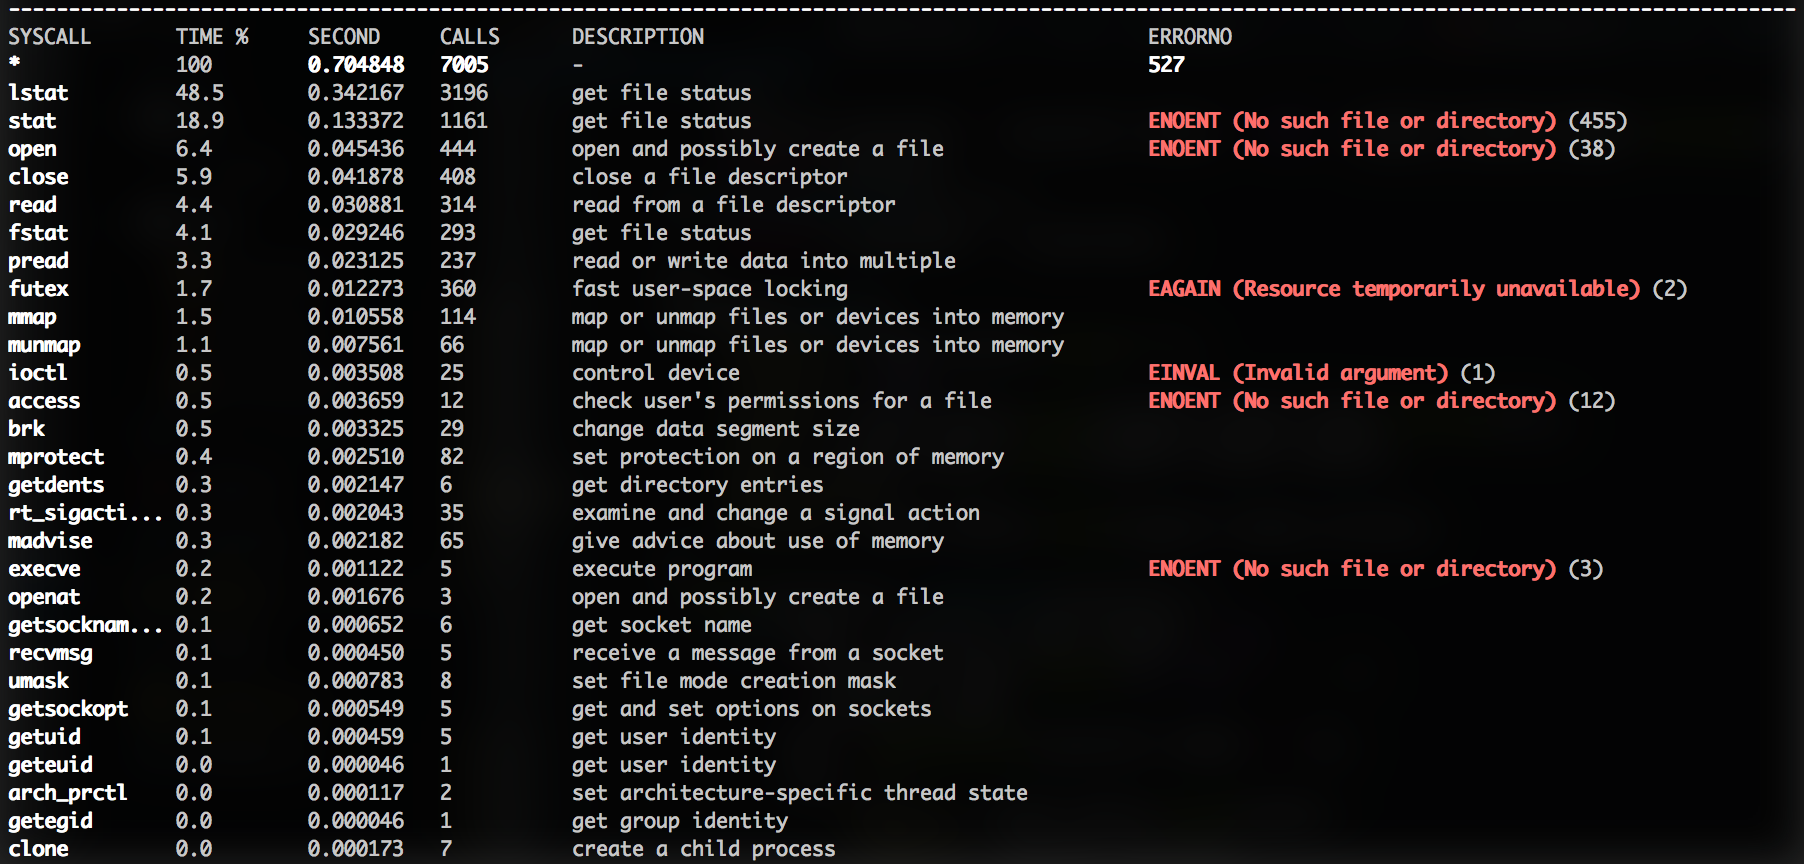
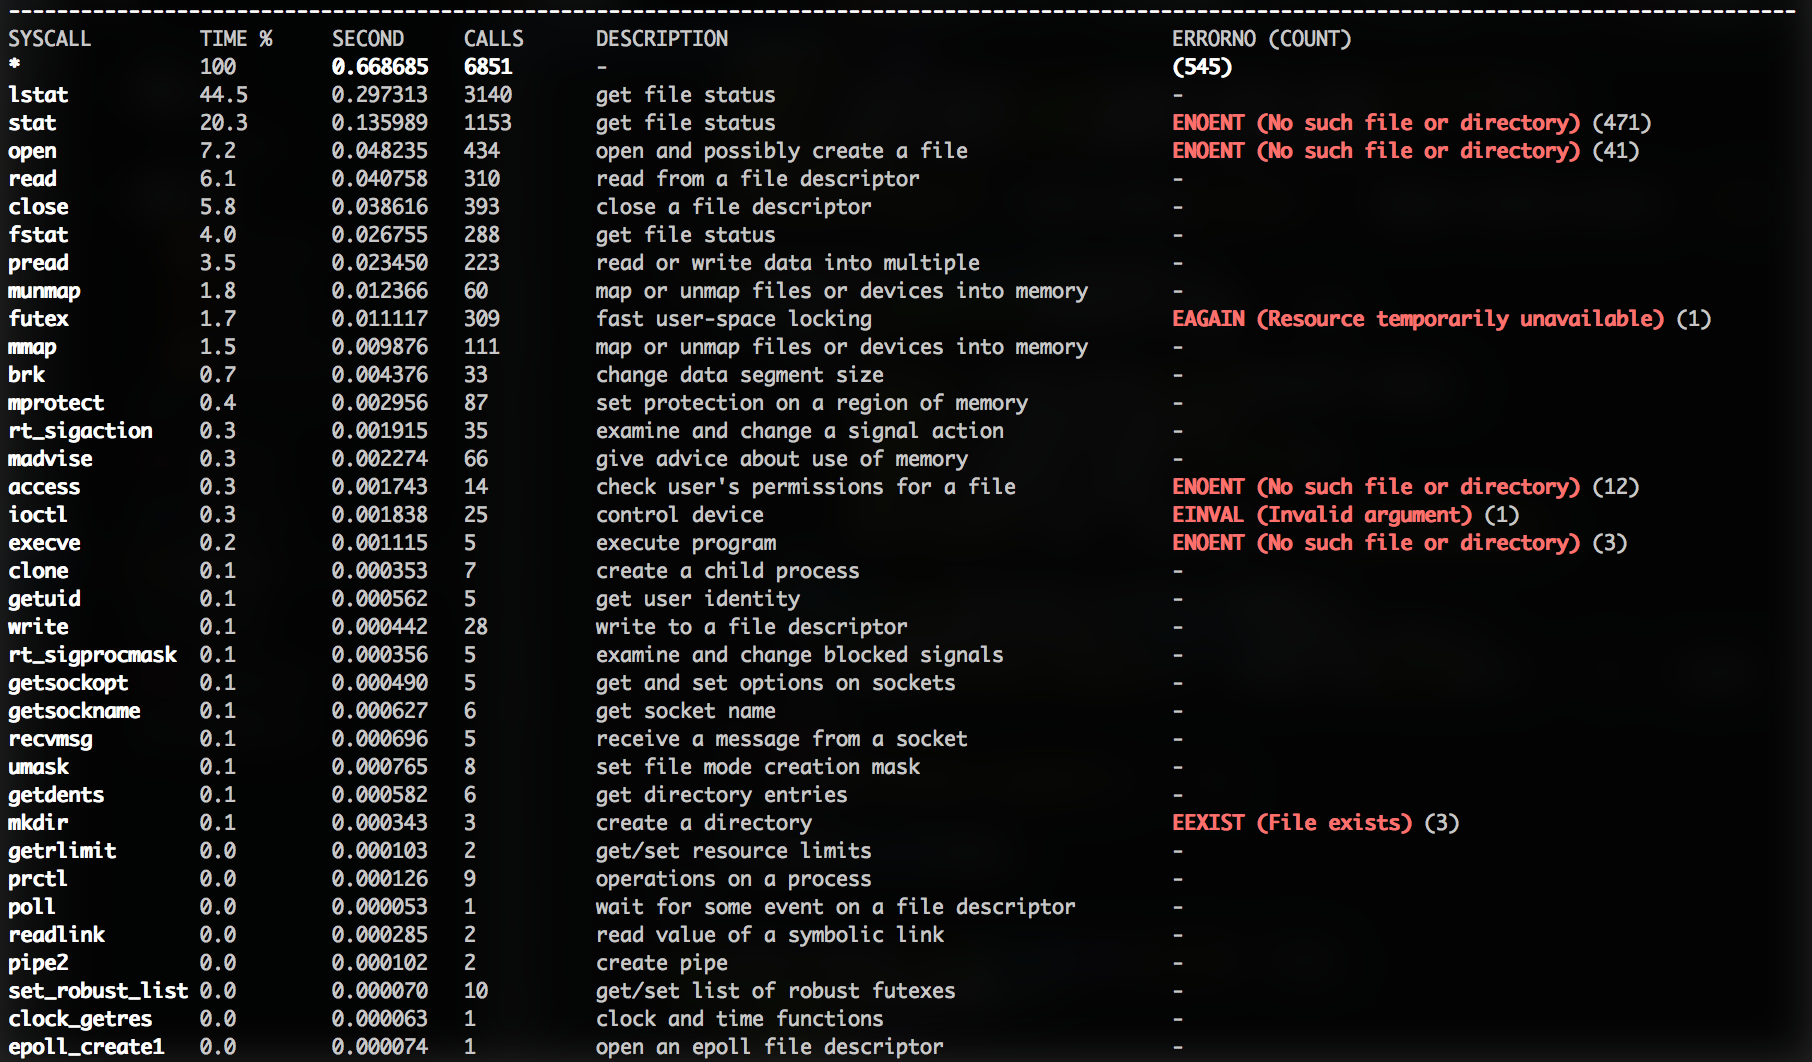
Updated README

diff --git a/README.md b/README.md
@@ -19,7 +19,7 @@ What do you think how difficult it is to display a hint for using CLI utility, l
 > ctrace -c "npm --help"
 ```
 What we see?! What NPM does to simply display help?
-- over 7000 system calls elapsed 700 msec!
+- over 6800 system calls elapsed over 650 msec!
 - 7 child processes :open_mouth:
 - aims to open over 400 files
 
